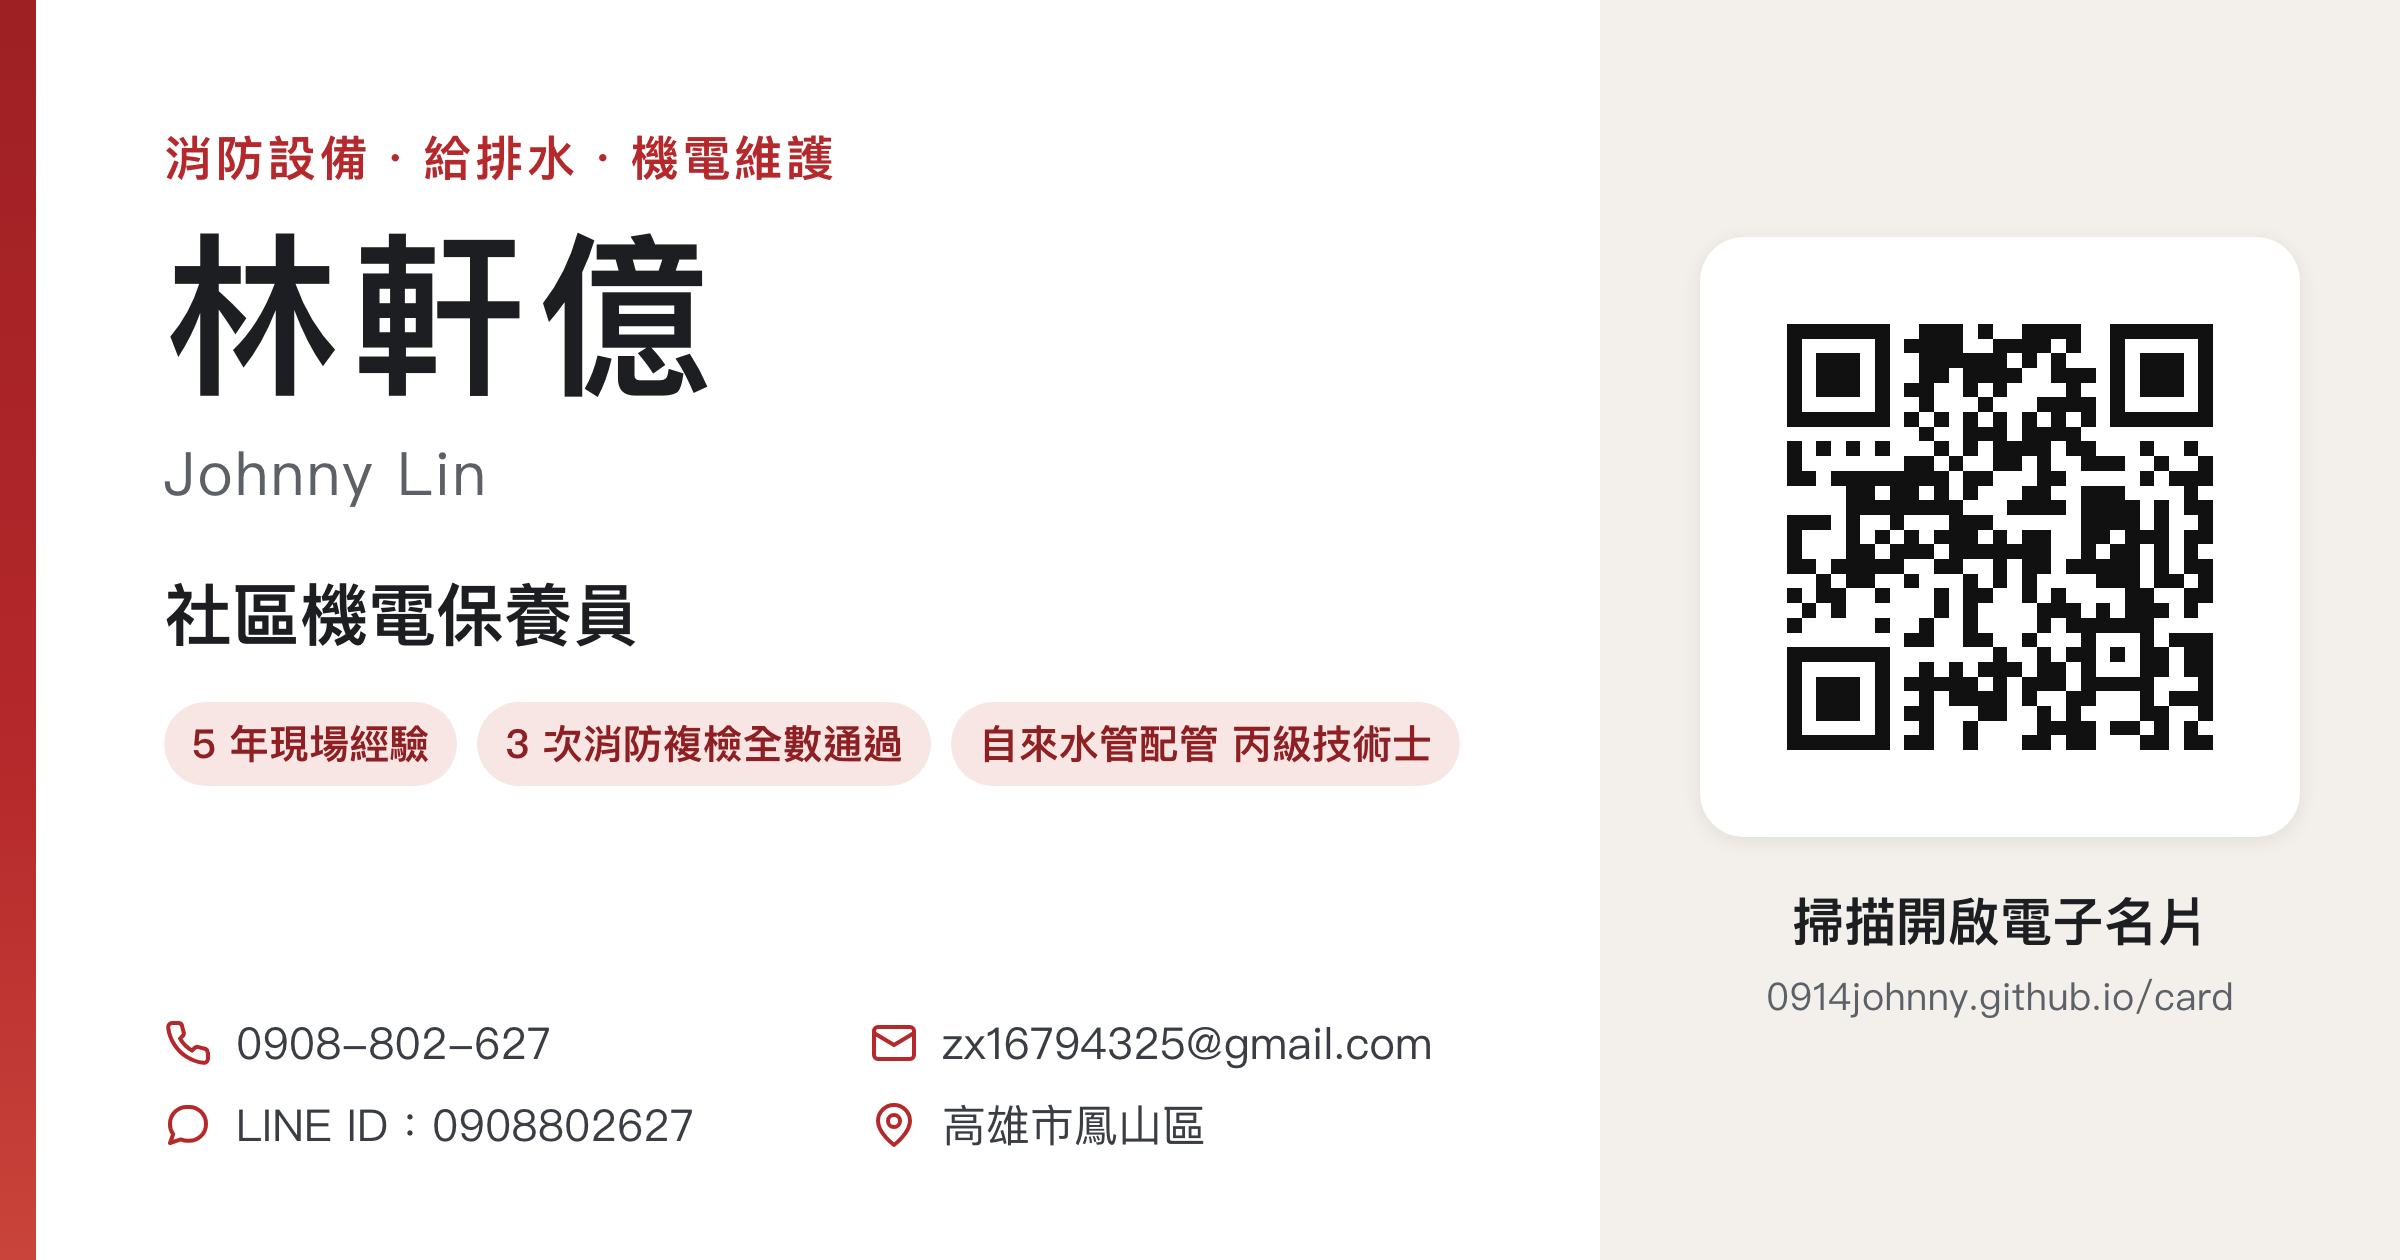
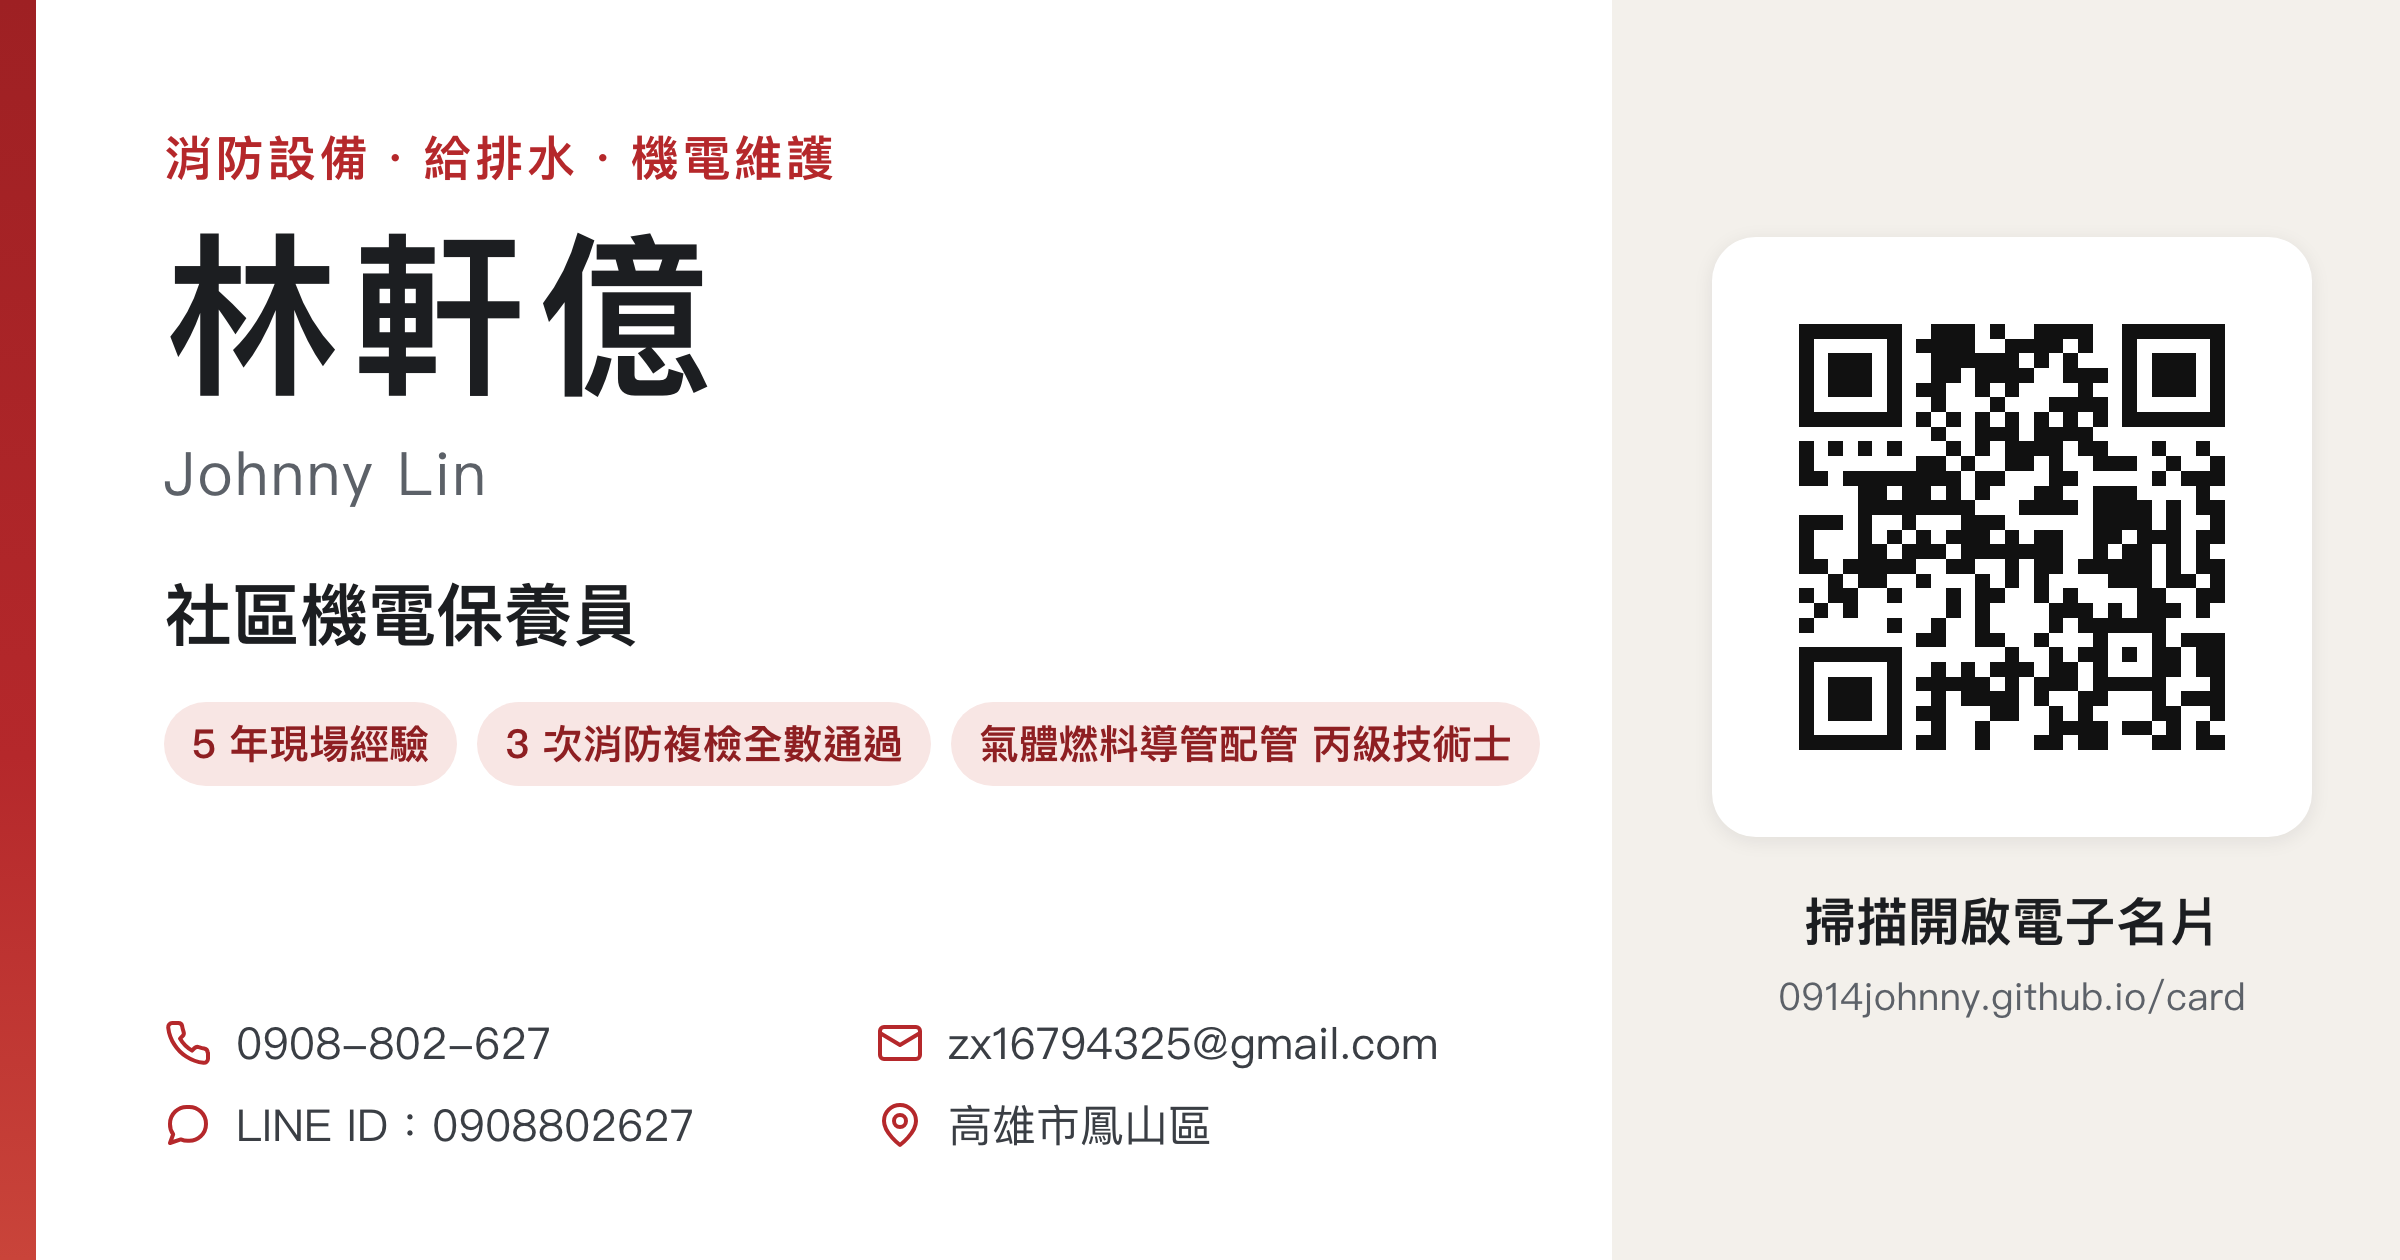
更新電子名片（2026-11-06）

diff --git a/index.html b/index.html
@@ -267,14 +267,14 @@
   <section class="card section">
     <h2>我能做的事</h2>
     <ul class="skills">
-      <li><span class="skill-icon fire"><svg class="i" viewBox="0 0 24 24" aria-hidden="true"><path d="M8.5 14.5A2.5 2.5 0 0 0 11 12c0-1.4-.5-2-1-3-1.1-2.1-.2-4 2-6 .5 2.5 2 4.9 4 6.5 2 1.6 3 3.5 3 5.5a7 7 0 1 1-14 0c0-1.2.4-2.3 1-3.3.3 1.6 1.4 2.8 2.5 2.8z"/></svg></span><div><b>消防設備保養與檢查</b><span>火警探測器、緊急照明、滅火器、標示設備的安裝與保養；受信總機再鳴動測試與燈號異常處理。</span></div></li><li><span class="skill-icon"><svg class="i" viewBox="0 0 24 24" aria-hidden="true"><path d="M14.7 6.3a1 1 0 0 0 0 1.4l1.6 1.6a1 1 0 0 0 1.4 0l3.8-3.8a6 6 0 0 1-7.9 7.9l-6.9 6.9a2.1 2.1 0 0 1-3-3l6.9-6.9a6 6 0 0 1 7.9-7.9l-3.8 3.8z"/></svg></span><div><b>給排水與機電維修</b><span>更換污水馬達並配明管、修理撒水輔助馬達、安裝消防呼水槽、修繕發電機 ATS 配件與檢查油量。</span></div></li><li><span class="skill-icon"><svg class="i" viewBox="0 0 24 24" aria-hidden="true"><rect x="8" y="2" width="8" height="4" rx="1"/><path d="M16 4h2a2 2 0 0 1 2 2v14a2 2 0 0 1-2 2H6a2 2 0 0 1-2-2V6a2 2 0 0 1 2-2h2"/><path d="m9 14 2 2 4-4"/></svg></span><div><b>消防檢修申報與複檢</b><span>整理檢修申報書與缺失清單；參與學校與社區大樓的消防複檢，三次都通過。</span></div></li><li><span class="skill-icon"><svg class="i" viewBox="0 0 24 24" aria-hidden="true"><path d="M16 21v-2a4 4 0 0 0-4-4H6a4 4 0 0 0-4 4v2"/><circle cx="9" cy="7" r="4"/><path d="M22 21v-2a4 4 0 0 0-3-3.9M16 3.1a4 4 0 0 1 0 7.8"/></svg></span><div><b>管委會申辦與廠商協調</b><span>協助申請使用執照與圖說補發、檢修申報補助、公共安全檢查申報；聯絡協力廠商估價，施工前公告住戶。</span></div></li>
+      <li><span class="skill-icon fire"><svg class="i" viewBox="0 0 24 24" aria-hidden="true"><path d="M8.5 14.5A2.5 2.5 0 0 0 11 12c0-1.4-.5-2-1-3-1.1-2.1-.2-4 2-6 .5 2.5 2 4.9 4 6.5 2 1.6 3 3.5 3 5.5a7 7 0 1 1-14 0c0-1.2.4-2.3 1-3.3.3 1.6 1.4 2.8 2.5 2.8z"/></svg></span><div><b>消防設備保養與檢查</b><span>火警探測器、緊急照明、滅火器、標示設備的安裝與保養；受信總機再鳴動測試與燈號異常處理。</span></div></li><li><span class="skill-icon"><svg class="i" viewBox="0 0 24 24" aria-hidden="true"><path d="M14.7 6.3a1 1 0 0 0 0 1.4l1.6 1.6a1 1 0 0 0 1.4 0l3.8-3.8a6 6 0 0 1-7.9 7.9l-6.9 6.9a2.1 2.1 0 0 1-3-3l6.9-6.9a6 6 0 0 1 7.9-7.9l-3.8 3.8z"/></svg></span><div><b>給排水與機電維修</b><span>更換 2 HP 污水馬達並配 2 吋明管、更換撒水輔助馬達的軸心與軸承、參與發電機 ATS 安裝與配件修繕，並檢查油量。</span></div></li><li><span class="skill-icon"><svg class="i" viewBox="0 0 24 24" aria-hidden="true"><rect x="8" y="2" width="8" height="4" rx="1"/><path d="M16 4h2a2 2 0 0 1 2 2v14a2 2 0 0 1-2 2H6a2 2 0 0 1-2-2V6a2 2 0 0 1 2-2h2"/><path d="m9 14 2 2 4-4"/></svg></span><div><b>消防檢修申報與複檢</b><span>整理檢修申報書與缺失清單；參與學校與社區大樓的消防複檢，三次都通過。</span></div></li><li><span class="skill-icon"><svg class="i" viewBox="0 0 24 24" aria-hidden="true"><path d="M16 21v-2a4 4 0 0 0-4-4H6a4 4 0 0 0-4 4v2"/><circle cx="9" cy="7" r="4"/><path d="M22 21v-2a4 4 0 0 0-3-3.9M16 3.1a4 4 0 0 1 0 7.8"/></svg></span><div><b>管委會申辦與廠商協調</b><span>協助申請使用執照與圖說補發、檢修申報補助、公共安全檢查申報；聯絡協力廠商估價，施工前公告住戶。</span></div></li>
     </ul>
   </section>
 
   <section class="card section">
     <h2>證照與技能</h2>
     <ul class="certs">
-      <li><svg class="i" viewBox="0 0 24 24" aria-hidden="true"><circle cx="12" cy="8" r="6"/><path d="M15.5 13 17 22l-5-3-5 3 1.5-9"/></svg><div><b>自來水管配管 丙級技術士</b><span>勞動部・2026/10</span></div></li><li><svg class="i" viewBox="0 0 24 24" aria-hidden="true"><circle cx="12" cy="8" r="6"/><path d="M15.5 13 17 22l-5-3-5 3 1.5-9"/></svg><div><b>新媒體行銷管理師認證</b><span>高雄市政府青年局・2022/01</span></div></li><li><svg class="i" viewBox="0 0 24 24" aria-hidden="true"><circle cx="12" cy="8" r="6"/><path d="M15.5 13 17 22l-5-3-5 3 1.5-9"/></svg><div><b>ChatGPT Lv1 課程結業</b><span>Nuva・2025/04</span></div></li>
+      <li><svg class="i" viewBox="0 0 24 24" aria-hidden="true"><circle cx="12" cy="8" r="6"/><path d="M15.5 13 17 22l-5-3-5 3 1.5-9"/></svg><div><b>氣體燃料導管配管 丙級技術士</b><span>勞動部・2026/11</span></div></li><li><svg class="i" viewBox="0 0 24 24" aria-hidden="true"><circle cx="12" cy="8" r="6"/><path d="M15.5 13 17 22l-5-3-5 3 1.5-9"/></svg><div><b>工業配線 丙級技術士</b><span>勞動部・2026/10</span></div></li><li><svg class="i" viewBox="0 0 24 24" aria-hidden="true"><circle cx="12" cy="8" r="6"/><path d="M15.5 13 17 22l-5-3-5 3 1.5-9"/></svg><div><b>自來水管配管 丙級技術士</b><span>勞動部・2026/10</span></div></li><li><svg class="i" viewBox="0 0 24 24" aria-hidden="true"><circle cx="12" cy="8" r="6"/><path d="M15.5 13 17 22l-5-3-5 3 1.5-9"/></svg><div><b>新媒體行銷管理師認證</b><span>高雄市政府青年局・2022/01</span></div></li><li><svg class="i" viewBox="0 0 24 24" aria-hidden="true"><circle cx="12" cy="8" r="6"/><path d="M15.5 13 17 22l-5-3-5 3 1.5-9"/></svg><div><b>ChatGPT Lv1 課程結業</b><span>Nuva・2025/04</span></div></li>
     </ul>
     <div class="chips"><span class="chip">Word・Excel 文書處理</span><span class="chip">申報書・缺失清單・估價單</span><span class="chip">用 AI 整理工作紀錄</span></div>
   </section>
